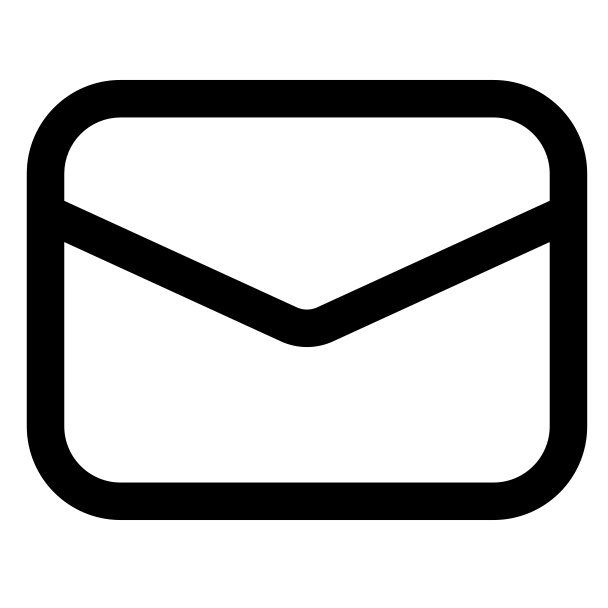
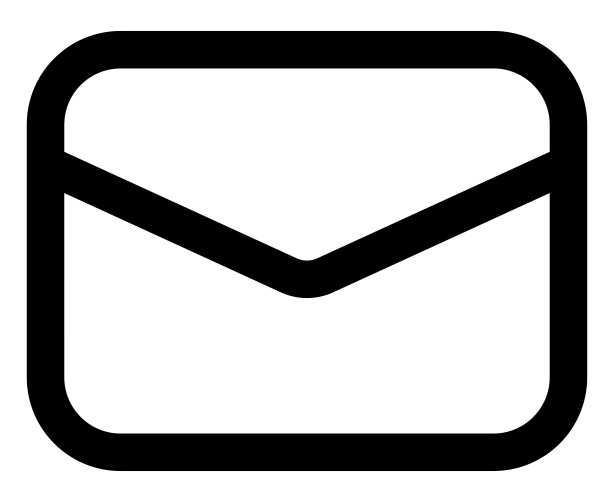
More styling

diff --git a/src/components/hero/Hero.css b/src/components/hero/Hero.css
@@ -3,7 +3,10 @@ p {
   margin-bottom: 5px;
 }
 
+
+
 .hero-description h2{
+  text-align: left;
   font-size: 24px;
 }
 
@@ -17,9 +20,10 @@ p {
   align-content: center;
 }
 
-.hero-description {
+div.hero-description {
   display: inline-block;
-  margin: 15px; 
+  padding: 25px; 
+  
 }
 
 .bio-item{
@@ -51,7 +55,7 @@ p {
 }
 
 
-@media screen and (min-width: 768px){
+@media screen and (min-width: 794px){
   .hero-section {
     width: 100%;
     display: flex;
@@ -91,10 +95,15 @@ p {
     font-size: 1.5em;
   }
 
+  .hero-description {
+    display: inline-block;
+    margin: 15px; 
+  }
+
   .hero-description h2 {
     font-weight: normal;
-    font-size: 3em;
-    margin-bottom: 25px;
+    font-size: 2.3em;
+    margin-bottom: 15px;
   }
 
   .bio-item p {
@@ -116,7 +125,7 @@ p {
 
 
 
-@media screen and (min-width: 900px){
+@media screen and (min-width: 1065px){
   .hero-section {
     height: 100vh;
     padding-top: 80px;
@@ -130,10 +139,11 @@ p {
   }
 
   .hero-description h2 {
-    text-align: left;
+    font-size: 3em;
+    margin-bottom: 25px;
+
   }
   
-
   .bio-item p {
     padding-left: 5px;
   }

diff --git a/src/components/projects/Projects.js b/src/components/projects/Projects.js
@@ -28,7 +28,7 @@ export default function Projects() {
           <img src={HTML} alt='html' className='icon' />
           <img src={CSS} alt='css' className='icon' />
           <img src={ReactLogo} alt='reactjs' className='icon' />
-          <img src={Node} alt='nodejs' className='icon' />
+          <img src={Node} alt='nodejs' className='icon' id='nodejs' />
           <img src={Postgresql} alt='postgresql' className='icon' />
         </h4>
         <p>Budgeteer is an expense tracker that helps users manage their purchases.
@@ -50,7 +50,7 @@ export default function Projects() {
           <img src={HTML} alt='html' className='icon' />
           <img src={CSS} alt='css' className='icon' />
           <img src={ReactLogo} alt='reactjs' className='icon' />
-          <img src={Node} alt='nodejs' className='icon' />
+          <img src={Node} alt='nodejs' className='icon' id='nodejs' />
           <img src={Postgresql} alt='postgresql' className='icon' />
         </h4>
         <p>Recipe Catalog is digital recipe storage container for the modern times.

diff --git a/src/components/contact/Contact.css b/src/components/contact/Contact.css
@@ -1,4 +1,5 @@
 h2.contact-me {
+  font-size: 30px;
   margin-bottom: 10px;
   margin-left: 50px;
   margin-right: 50px;
@@ -13,12 +14,28 @@ ul.contact-icons {
 }
 
 .contact-icon{
-  height: 50px;
-  width: 50px;
-  transition: top 2s linear;
+  height: 30px;
+  -moz-transition: top 2s ease-in-out;
+	-webkit-transition: top 2s ease-in-out;
+	-ms-transition: top 2s ease-in-out;
+  transition: top 2s ease-in-out;
 }
 
 .contact-icon:hover {
   position: relative;
   top: -7px;
+}
+
+#email {
+  padding-top: 2px;
+}
+
+@media screen and (min-width: 768px){
+  h2.contact-me {
+    font-size: 44px;
+  }
+
+  .contact-icon {
+    height: 40px;
+  }
 }

diff --git a/src/components/projects/Projects.css b/src/components/projects/Projects.css
@@ -11,8 +11,12 @@ h2, h3 {
  text-align: center;
 }
 
-h3 {
+h2 {
   font-size: 36px;
+}
+
+h3 {
+  font-size: 28px;
   margin-top: 10px;
   margin-bottom: 10px;
 }
@@ -42,8 +46,7 @@ h4 {
 }
 
 h4 .icon{
-  height: 40px;
-  width: 40px;
+  height: 30px;
   margin-left: 2px;
   margin-right: 2px;
 }
@@ -74,9 +77,21 @@ a.link:hover {
   text-decoration: underline;
 }
 
+#nodejs {
+  padding-right: 2px;
+}
+
 @media screen and (min-width: 768px){
   #project-section h2 {
     font-size: 44px;
     margin-bottom: 25px;
+  }
+
+  h3 {
+    font-size: 36px;
+  }
+
+  h4 .icon{
+    height: 40px;
   }
 }

diff --git a/src/components/bio/Bio.js b/src/components/bio/Bio.js
@@ -1,11 +1,14 @@
 import React from 'react';
+
+import Travel from '../../images/NewZealand.jpg';
 import './Bio.css';
 
 export default function Bio() {
   return (
     <div id='bio-section'>
       <div className='bio-container'>
-        <h2>A bit about me:</h2>
+        <h2>A bit about me</h2>
+        <img src={Travel} alt='New Zealand' className='bio-pic' />
         <div className="bio">
           <p>
             I'm a full stack web developer focused on React and Node, sprinkled with a little bit of ASP Classic and SQL.

diff --git a/src/components/bio/Bio.css b/src/components/bio/Bio.css
@@ -1,16 +1,33 @@
 #bio-section{
   margin-bottom: 30px;
   padding-top: 100px;
-  height: 100vh;
+  min-height: 100vh;
   width: 90%;
   margin-right: auto;
   margin-left: auto;
-
 }
 
 .bio-container{
   padding: 10px;
   border: 1px gray solid;
+  background-color: white;
+}
+
+img.bio-pic{
+  border-radius: 10px;
+  display: block;
+  width: 80vw;
+  margin: 0 auto 15px;
+}
+
+.bio {
+  display: block;
+  width: 80vw;
+  margin: 5px auto;
+}
+
+div.bio p {
+  margin: 5px;
 }
 
 #bio-section h2 {

diff --git a/src/components/header/Header.js b/src/components/header/Header.js
@@ -10,8 +10,8 @@ export default function Header() {
 
         <div className="menu">
           <ul className='links'>
-            <li><Link smooth to='/#bio-section' className="jumper">Bio</Link></li>
             <li><Link smooth to='#project-section' className="jumper">Projects</Link></li>
+            <li><Link smooth to='/#bio-section' className="jumper">Bio</Link></li>
             <li><Link smooth to='#contact-section' className="jumper">Contact</Link></li>
           </ul>
         </div>

diff --git a/src/components/hero/Hero.js b/src/components/hero/Hero.js
@@ -23,7 +23,7 @@ export default function Hero() {
           </div>
           <div className='bio-item'>
             <img src={Wool} alt='wool' className='bio-icon' />
-            <p>settling the island of Catan</p>
+            <p>settling Catan</p>
           </div>
           <div className='bio-item'>
             <img src={Plane} alt='plane' className='bio-icon' />

diff --git a/src/components/contact/Contact.js b/src/components/contact/Contact.js
@@ -13,7 +13,7 @@ export default function Contact() {
       <ul className='contact-icons'>
         <li>
           <a className="email" href="mailto:jwong.ncsu@gmail.com">
-            <img src={Email} alt='email' className='contact-icon' />
+            <img src={Email} alt='email' className='contact-icon' id='email' />
           </a>
         </li>
         <li>

diff --git a/src/App.js b/src/App.js
@@ -19,8 +19,8 @@ function App() {
       <Header />
       <main>
         <Hero />
-        <Bio />
         <Projects />
+        <Bio />
       </main>
       <footer>
         <Contact />

diff --git a/src/components/header/Header.css b/src/components/header/Header.css
@@ -41,7 +41,7 @@ li {
   text-decoration: underline;
 }
 
-@media screen and (min-width: 768px){
+@media screen and (min-width: 1075px){
   
   .header {
     height: 75px;

diff --git a/README.md b/README.md
@@ -68,6 +68,6 @@ This section has moved here: https://facebook.github.io/create-react-app/docs/de
 This section has moved here: https://facebook.github.io/create-react-app/docs/troubleshooting#npm-run-build-fails-to-minify
 
 ## Images
- - [Coffee](https://thenounproject.com/search/?q=coffee&i=3327143) icon by The Icon Z from The Noun Project
+ - [Coffee](https://thenounproject.com/search/?q=coffee&i=3327143) and [Email](https://thenounproject.com/search/?q=email&i=3325680) icons by The Icon Z from The Noun Project
  - [Wool](https://thenounproject.com/term/wool/53278/) icon by Callum Taylor from The Noun Project
  - [Plane](https://thenounproject.com/search/?q=plane&i=3282441) icon by alkhalifi_design from The Noun Project
